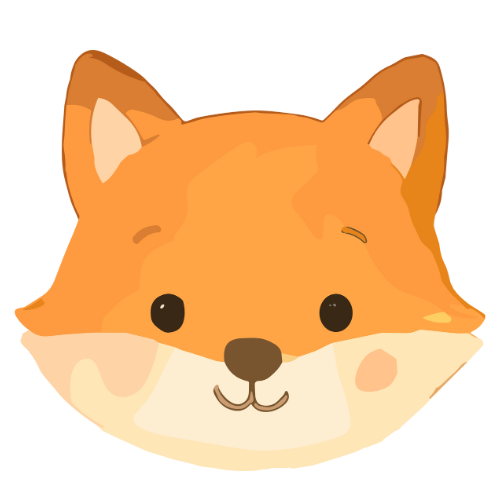
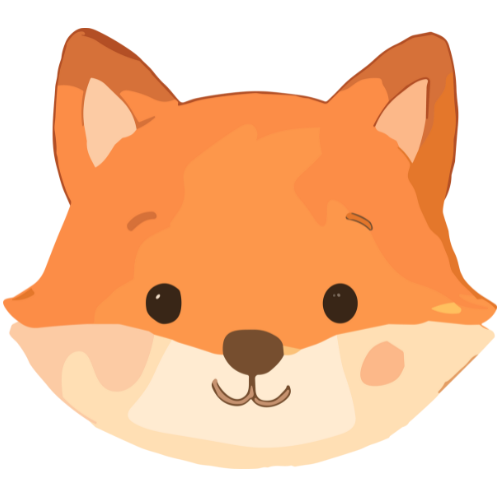
feat: name input and button

diff --git a/src/styles/main.css b/src/styles/main.css
@@ -3,6 +3,11 @@
   src: url(../fonts/Montserrat-VariableFont_wght.ttf);
 }
 
+* {
+  margin: 0;
+  padding: 0;
+}
+
 body {
   background-color: rgb(173, 219, 237);
   font-family: Montserrat;
@@ -13,10 +18,11 @@ body {
 }
 
 .pop-up {
-  width: 60vw;
-  max-width: 500px;
+  width: 62vw;
+  max-width: 600px;
   height: 60vh;
   background-color: rgb(244, 236, 200);
+  /* background-color: rgb(240, 233, 200); */
   border: 4px solid rgb(206, 198, 159);
   border-radius: 80px;
   padding: 20px 50px;
@@ -24,6 +30,23 @@ body {
   flex-direction: column;
   align-items: center;
   justify-content: center;
+}
+
+.pop-up h2 {
+  font-size: 3.5em;
+  color: rgb(84, 127, 170);
+}
+
+#character-img {
+  width: 40vw;
+  max-width: 300px;
+  /* border: 2px solid red; */
+}
+
+.choose-char {
+  display: flex;
+  justify-content: center;
+  align-items: center;
 }
 
 img {
@@ -37,31 +60,35 @@ img {
 .arrow-button {
   border: none;
   background-color: transparent;
-  margin: 3px;
   cursor: pointer;
+  /* border: 2px solid red; */
+  margin: 10%;
 }
 
-.arrow-button:hover {
-  animation-name: bounce;
-  animation-duration: 1s;
+.arrow-button img {
+  width: 8vw;
+  max-width: 70px;
+}
+
+#left-arrow:hover {
+  animation-name: slide-left;
+  animation-duration: 0.5s;
   animation-iteration-count: infinite;
   animation-timing-function: linear;
+  animation-direction: alternate;
 }
 
-.pop-up h2 {
-  font-size: 3em;
-  color: rgb(84, 127, 170);
-  margin: 0;
+#right-arrow:hover {
+  animation-name: slide-right;
+  animation-duration: 0.5s;
+  animation-iteration-count: infinite;
+  animation-timing-function: linear;
+  animation-direction: alternate;
 }
 
 .enter-name {
   margin: 10px;
-  /* font-size: 1.5ems; */
-  /* padding: 15px; */
 }
-/* .enter-name input::placeholder {
-  font-size: 1.3em;
-} */
 
 .enter-name input {
   width: 30vw;
@@ -82,11 +109,13 @@ img {
   background-color: rgb(238, 75, 75);
   color: white;
   border-radius: 25px;
-  width: 65px;
+  width: 20%;
+  min-width: 70px;
   height: 35px;
   padding: 5px;
   font-family: Montserrat;
-  font-size: 0.9em;
+  font-size: 1em;
+  cursor: pointer;
 }
 
 .name-input-and-button {
@@ -94,8 +123,14 @@ img {
   border-radius: 25px;
 }
 
-@keyframes bounce {
+@keyframes slide-right {
   50% {
-    transform: translateX(30%);
+    transform: translateX(10px);
+  }
+}
+
+@keyframes slide-left {
+  50% {
+    transform: scaleX(-1) translateX(10px);
   }
 }

diff --git a/src/index.html b/src/index.html
@@ -17,29 +17,26 @@
             id="left-arrow"
             src="images/arrows/arrow2.png"
             alt="arrow button"
-            width="40px"
           />
         </button>
         <img
-          src="images/characters/lion12.png"
+          src="images/characters/bunny12.png"
           alt="character"
-          width="55%"
-          id="character"
+          id="character-img"
         />
         <button class="arrow-button">
           <img
             id="right-arrow"
             src="images/arrows/arrow2.png"
             alt="arrow button"
-            width="40px"
           />
         </button>
       </div>
 
       <div class="enter-name">
-        <label for="name">Enter your name: </label>
+        <!-- <label for="name">Enter your name: </label> -->
         <div class="name-input-and-button">
-          <input type="text" id="name" placeholder="name" />
+          <input type="text" id="name" placeholder="Enter your name" />
           <button id="done-button">Done</button>
         </div>
       </div>